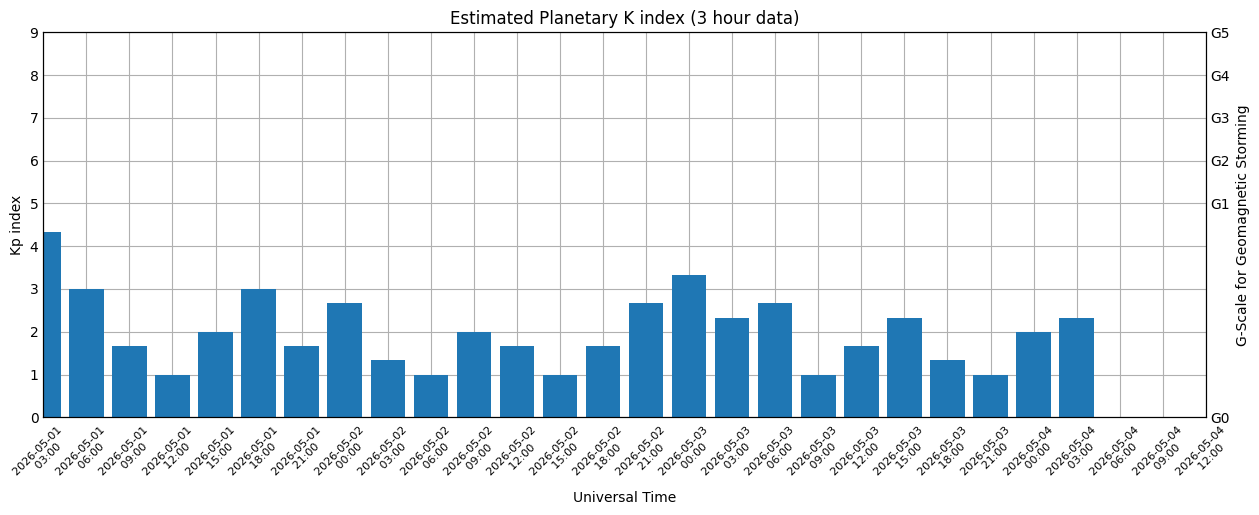
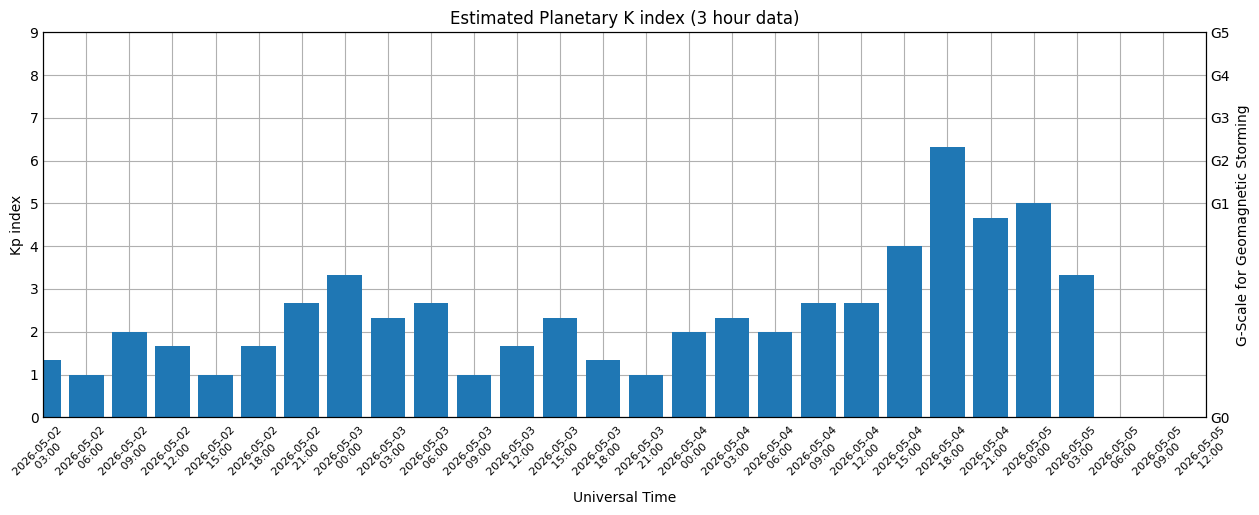
new day update

diff --git a/README.md b/README.md
@@ -1,12 +1,11 @@
 # Space Weather App
 ## Astronomical Picture of the Day
 ![Image](Astro_Images/image.jpg)
-<br />**Date image released:**  2017-03-25
-<br />**This image is owned by:**  Damian
-Peach
-<br />**Title of the image:**  Ganymede's Shadow
-<br />**Description for the image:**  Approaching opposition early next month, Jupiter is offering some of its best telescopic views from planet Earth. On March 17, this impressively sharp image of the solar system's ruling gas giant was taken from a remote observatory in Chile. Bounded by planet girdling winds, familiar dark belts and light zones span the giant planet spotted with rotating oval storms. The solar system's largest moon Ganymede is above and left in the frame, its shadow seen in transit across the northern Jovian cloud tops. Ganymede itself is seen in remarkable detail along with bright surface features on fellow Galilean moon Io, right of Jupiter's looming disk.
-<br />**URL for this image:**  https://apod.nasa.gov/apod/image/1703/2017-03-17-0726_2-RGBdp.jpg
+<br />**Date image released:**  2026-05-05
+<br />**This image is owned by:**  Marcin Rosadziński
+<br />**Title of the image:**  Orion over Mount Teide
+<br />**Description for the image:**  Orion is rarely seen like this.  To achieve this majestic vista, you need a camera capable of taking such long duration exposures that faint features in the night sky become revealed.  Iconic nebulas that appear include the Orion Nebula, the Flame Nebula, and Barnard's Loop. For contrast, it also helps to have a volcano on the foreground, in this case the Teide volcano on Tenerife on the Canary Islands of Spain.  But if you want your Teide volcano snow-covered, you also need good timing -- because that only happens, typically, for a few days each year.  Good timing also includes waiting for Orion to appear just behind Teide, which occurred late last year after sunset.  The featured image is the result of a series of images taken consecutively with the same camera from the same location.   Sky Surprise: What picture did APOD feature on your birthday? (after 1995)
+<br />**URL for this image:**  https://apod.nasa.gov/apod/image/2605/OrionTeide_Rosadzinski_4247.jpg
 
 ## X-Ray Flux
 The GOES X-ray plots shown here are used to track solar activity and solar flares. Large solar X-ray flares can change the Earth’s ionosphere, which blocks high-frequency (HF) radio transmissions on the sunlit side of the Earth. Solar flares are also associated with Coronal Mass Ejections (CMEs) which can ultimately lead to geomagnetic storms. SWPC sends out space weather alerts at the M5 (5x10^-5 Watts/mw) level. Some large flares are accompanied by strong radio bursts that may interfere with other radio frequencies and cause problems for satellite communication and radio navigation (GPS).
@@ -50,40 +49,40 @@ Scale | Description | Effect
 ## 3-day Forecast
 ```
 :Product: 3-Day Forecast
-:Issued: 2026 May 04 0030 UTC
+:Issued: 2026 May 05 0030 UTC
 # Prepared by the U.S. Dept. of Commerce, NOAA, Space Weather Prediction Center
 #
 A. NOAA Geomagnetic Activity Observation and Forecast
 
-The greatest observed 3 hr Kp over the past 24 hours was 3 (below NOAA
-Scale levels).
-The greatest expected 3 hr Kp for May 04-May 06 2026 is 3.00 (below NOAA
-Scale levels).
+The greatest observed 3 hr Kp over the past 24 hours was 6 (NOAA Scale
+G2).
+The greatest expected 3 hr Kp for May 05-May 07 2026 is 5.67 (NOAA Scale
+G2).
 
-NOAA Kp index breakdown May 04-May 06 2026
+NOAA Kp index breakdown May 05-May 07 2026
 
-             May 04       May 05       May 06
-00-03UT       2.67         2.00         1.67     
-03-06UT       3.00         2.67         2.00     
-06-09UT       2.00         1.67         2.67     
-09-12UT       2.00         1.67         1.67     
-12-15UT       1.67         1.00         0.67     
-15-18UT       1.67         0.67         0.67     
-18-21UT       0.67         1.00         1.67     
-21-00UT       2.00         1.67         1.67     
+             May 05       May 06       May 07
+00-03UT       5.33 (G1)    2.67         3.33     
+03-06UT       5.67 (G2)    2.33         3.67     
+06-09UT       5.00 (G1)    2.00         3.00     
+09-12UT       4.00         1.33         2.33     
+12-15UT       3.00         1.67         2.33     
+15-18UT       2.33         2.33         3.33     
+18-21UT       2.00         2.00         3.33     
+21-00UT       2.67         2.67         3.67     
 
-Rationale: No G1 (Minor) or greater geomagnetic storms are expected.  No
-significant transient or recurrent solar wind features are forecast.
+Rationale: Isolated G1-G2 (Minor-Moderate) storming periods are possible
+early on 05 May as CME/CH HSS effects persist.
 
 B. NOAA Solar Radiation Activity Observation and Forecast
 
-Solar radiation, as observed by NOAA GOES-18 over the past 24 hours, was
+Solar radiation, as observed by NOAA GOES-19 over the past 24 hours, was
 below S-scale storm level thresholds.
 
-Solar Radiation Storm Forecast for May 04-May 06 2026
+Solar Radiation Storm Forecast for May 05-May 07 2026
 
-              May 04  May 05  May 06
-S1 or greater    5%      5%      5%
+              May 05  May 06  May 07
+S1 or greater    5%      1%      1%
 
 Rationale: No S1 (Minor) or greater solar radiation storms are expected.
 No significant active region activity favorable for radiation storm
@@ -91,15 +90,17 @@ production is forecast.
 
 C. NOAA Radio Blackout Activity and Forecast
 
-No radio blackouts were observed over the past 24 hours.
+Radio blackouts reaching the R1 levels were observed over the past 24
+hours. The largest was at May 04 2026 0133 UTC.
 
-Radio Blackout Forecast for May 04-May 06 2026
+Radio Blackout Forecast for May 05-May 07 2026
 
-              May 04        May 05        May 06
-R1-R2           40%           40%           40%
+              May 05        May 06        May 07
+R1-R2           30%           30%           30%
 R3 or greater    5%            5%            5%
 
-Rationale: No R1 (Minor) or greater radio blackouts are expected.  No
-significant active region flare activity is forecast.
+Rationale: There is a chance for isolated R1-R2 (Minor-Moderate) radio
+blackouts on 05-07 May, primarily due to the flare potential of Region
+4429.
 
 ```